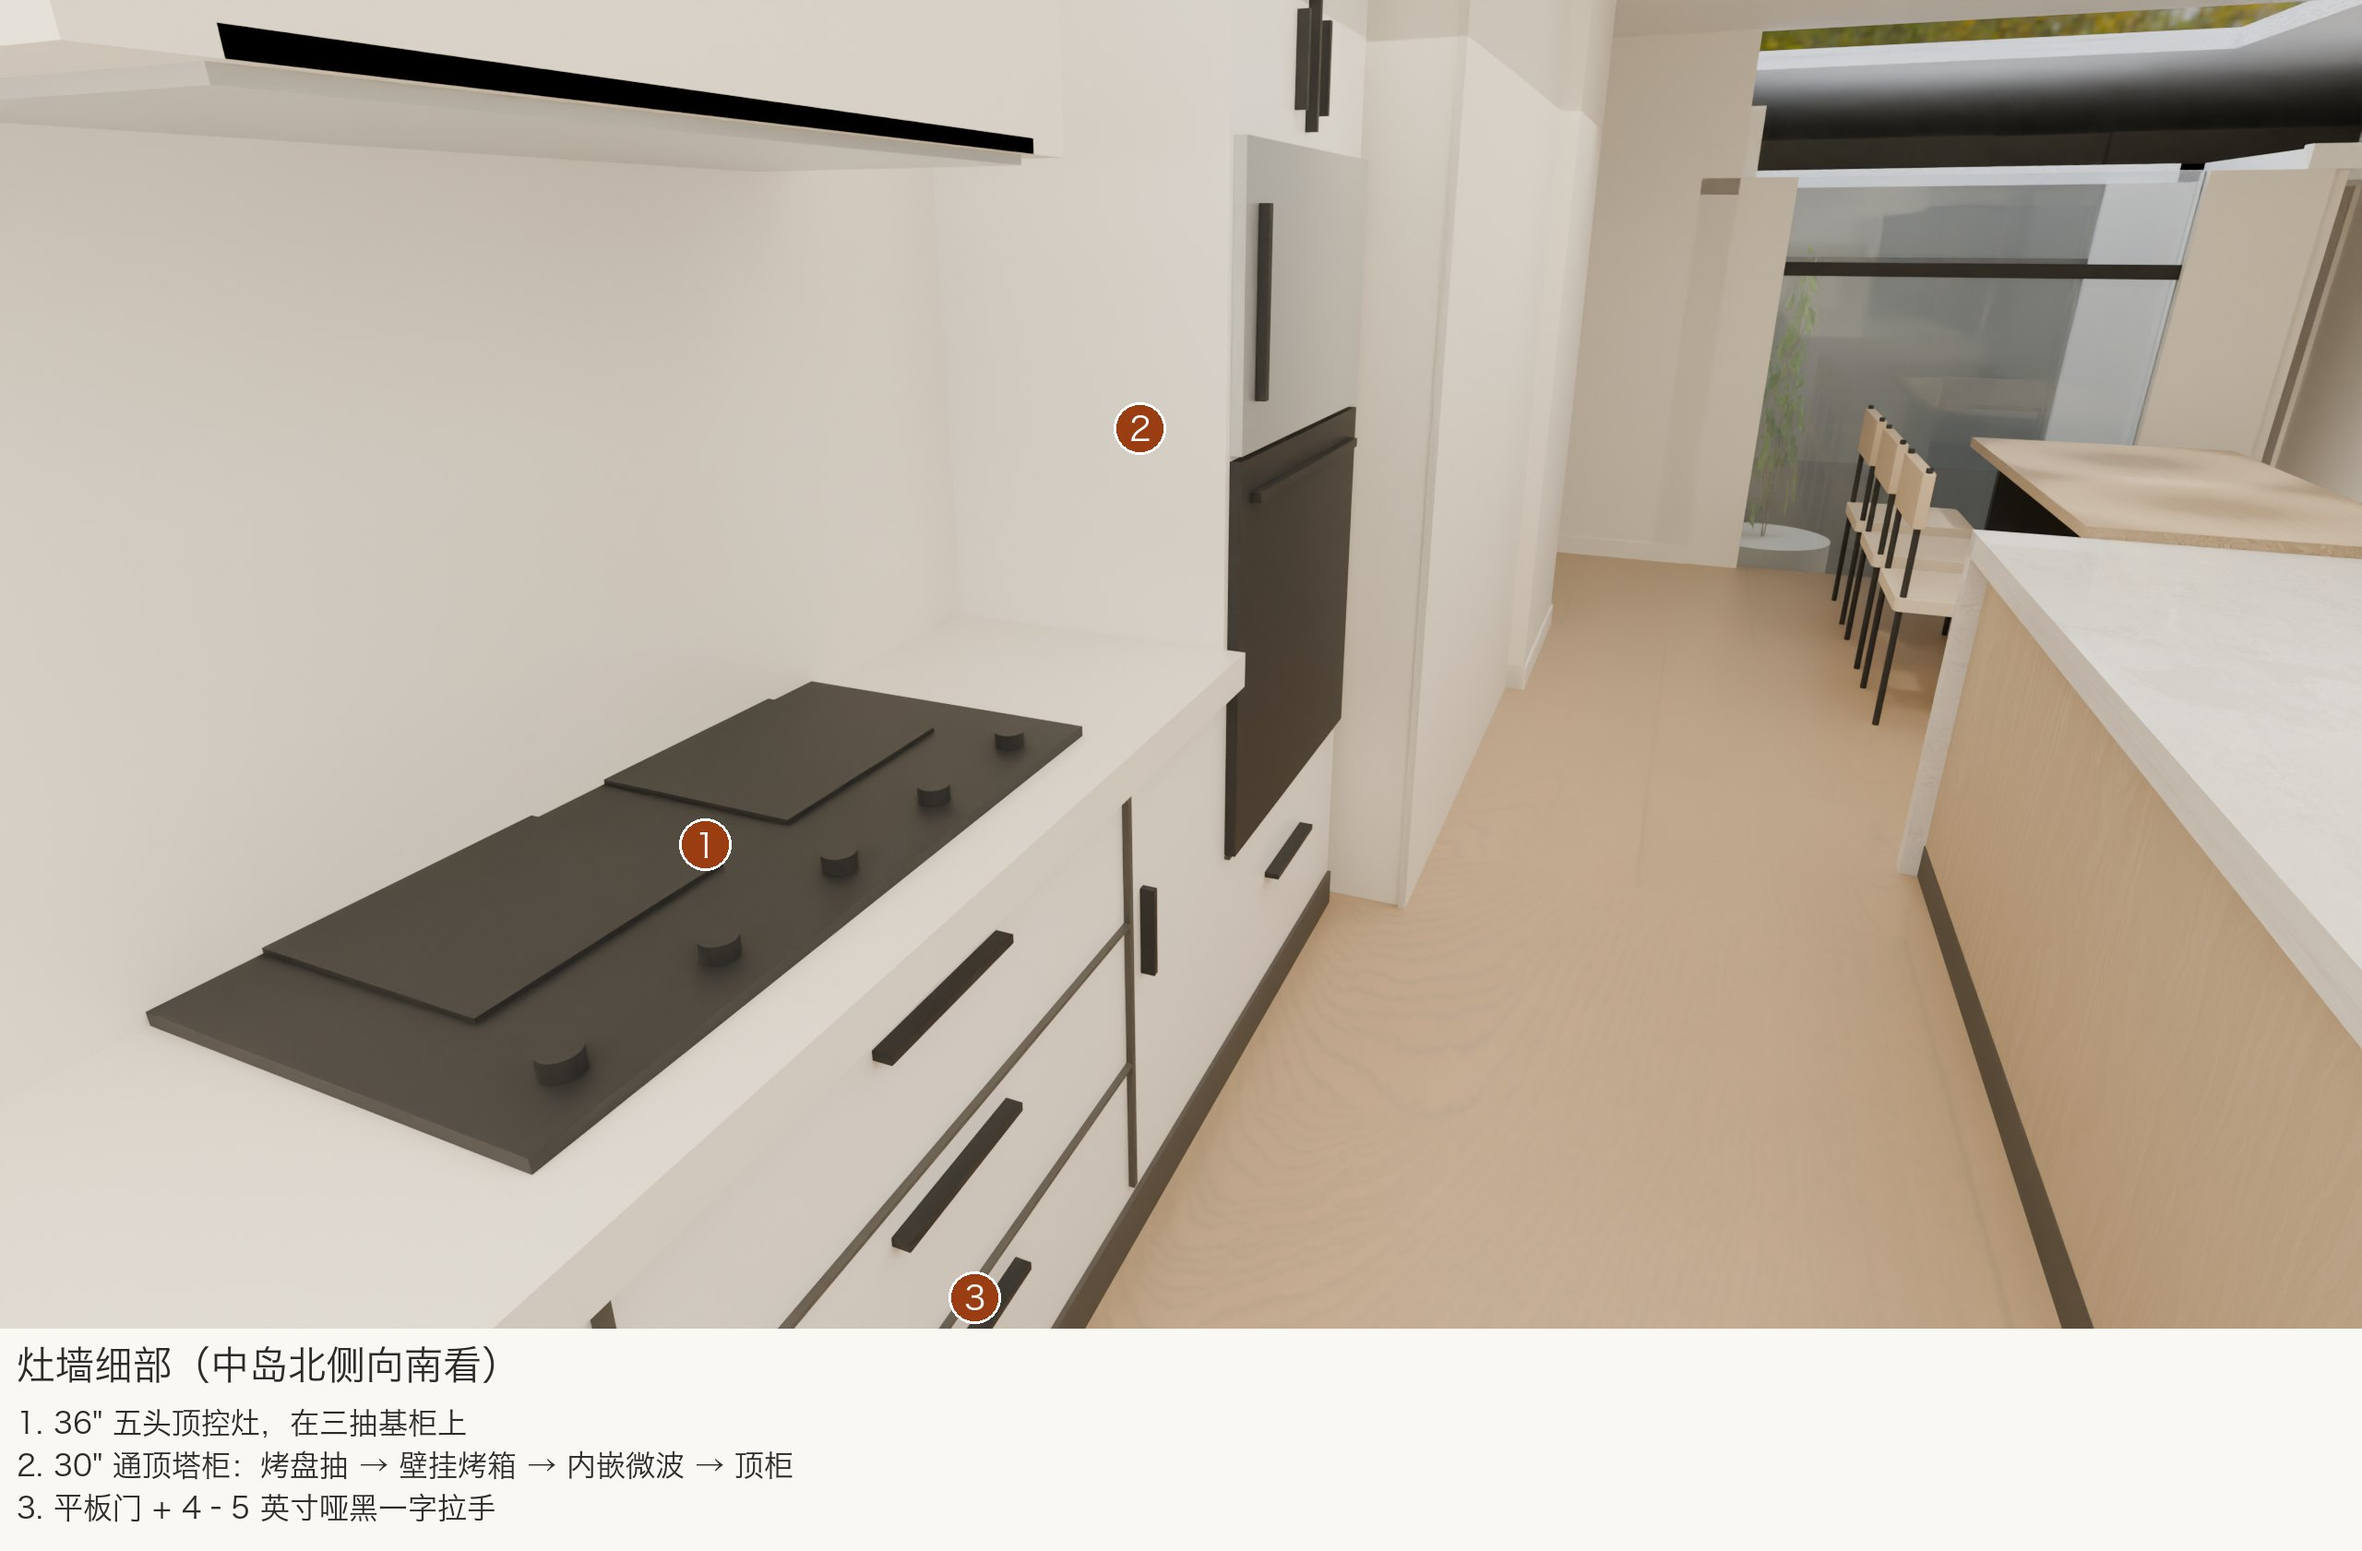
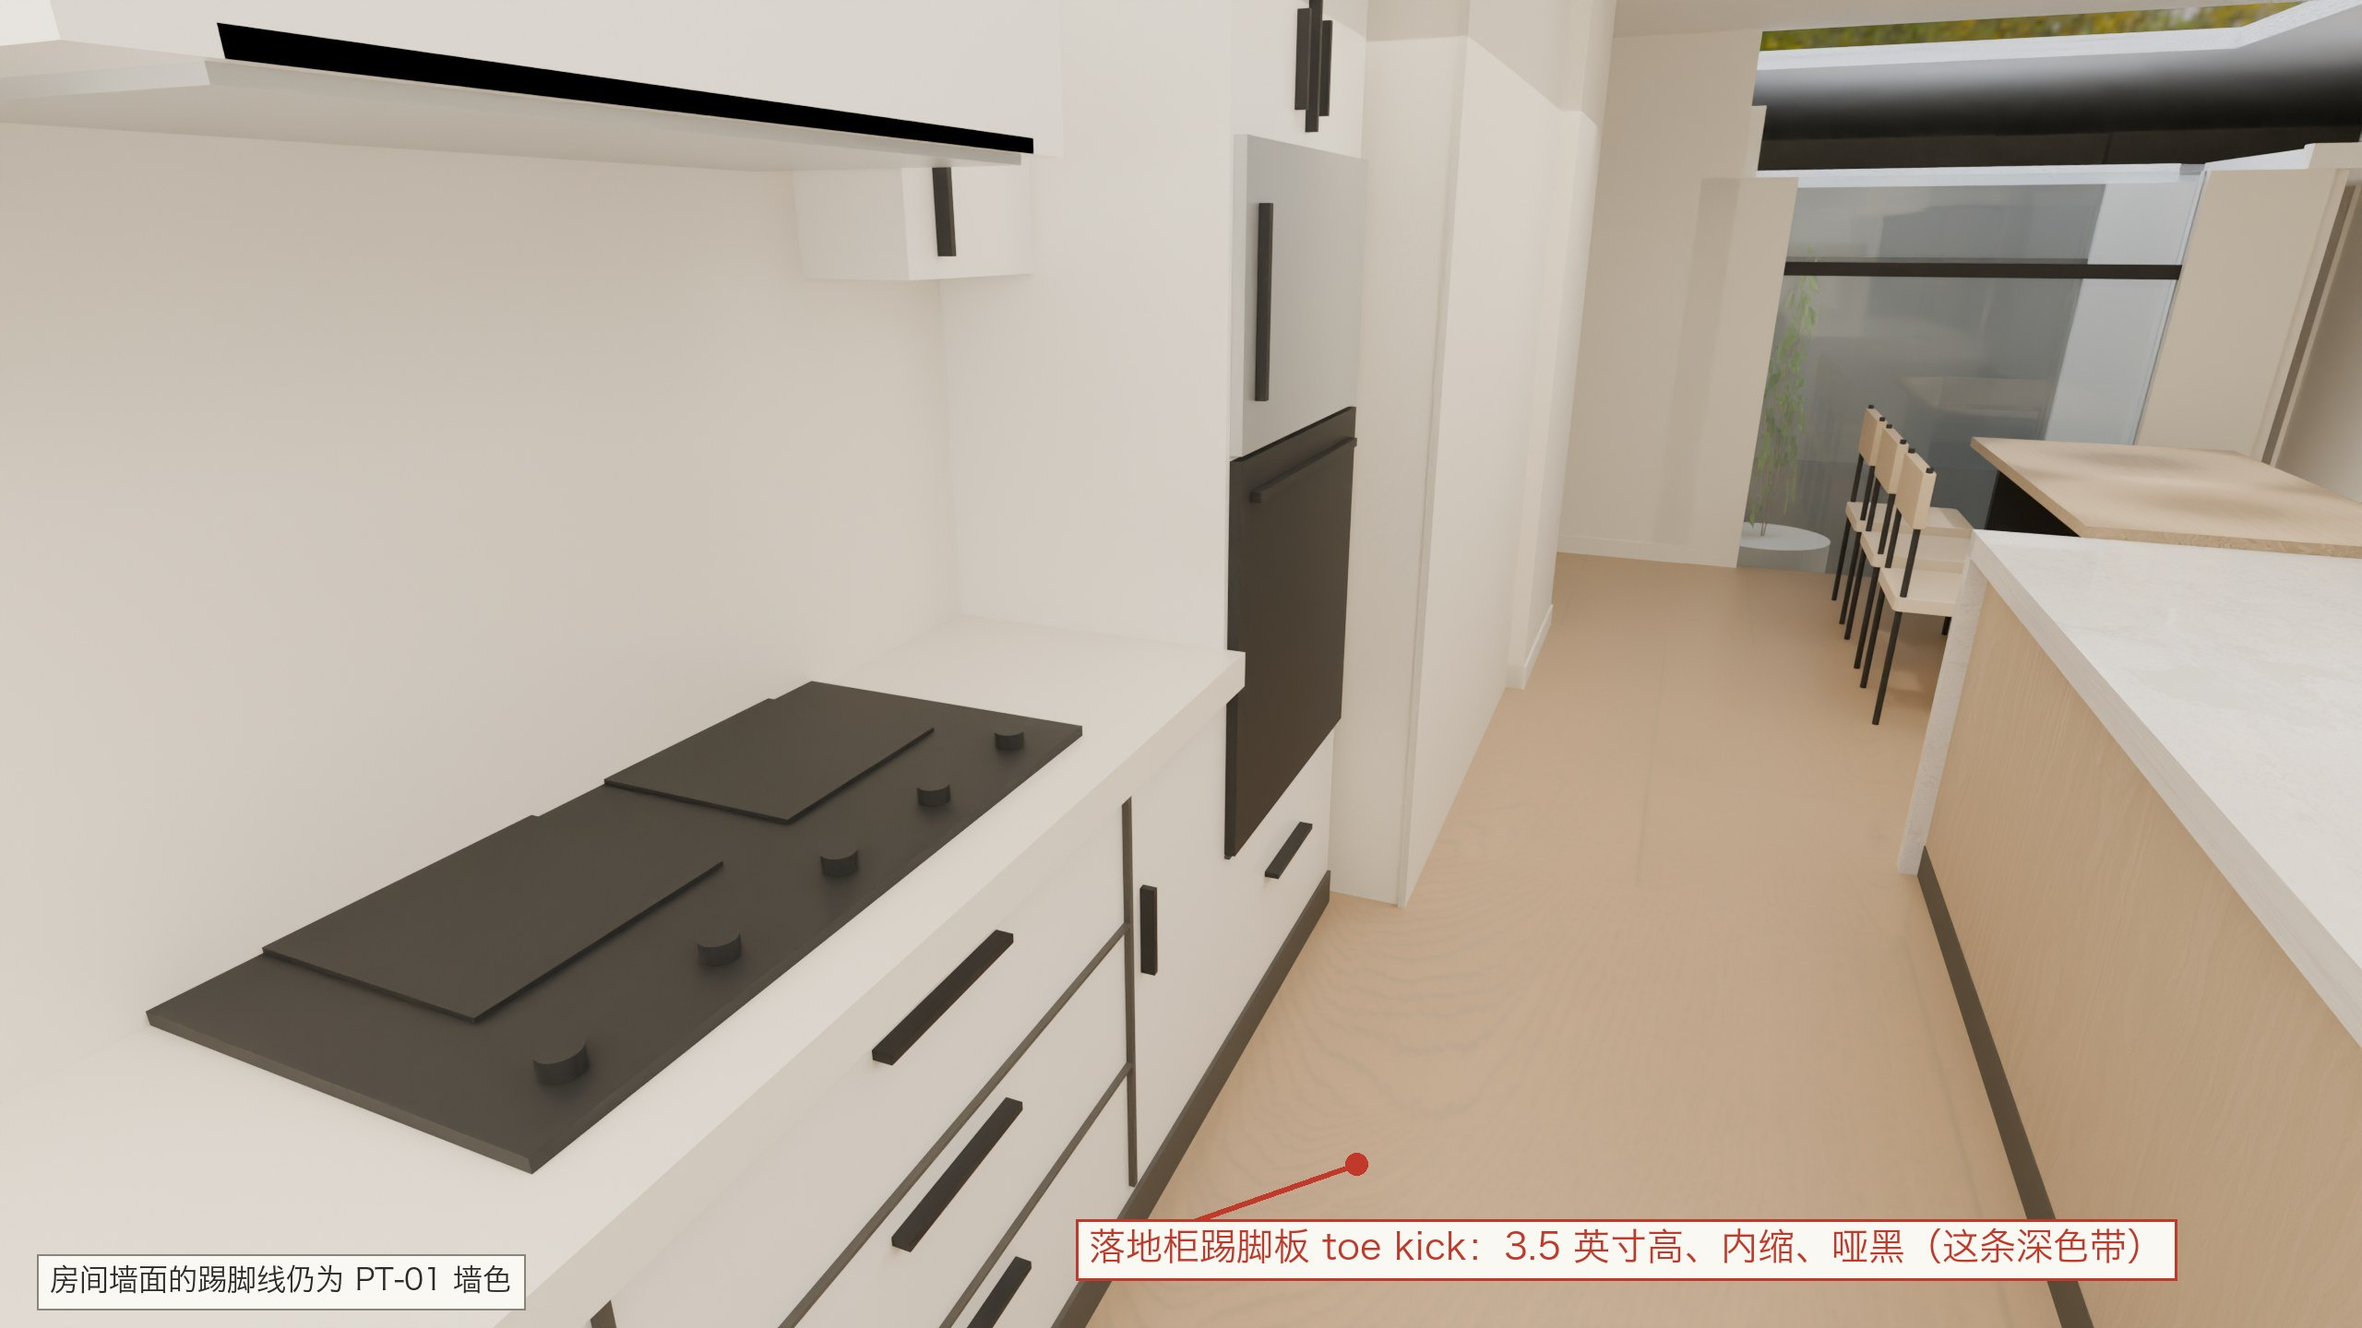
Kitchen: hood cabinet in matching cabinet panel, continuous upper run (renders updated)

diff --git a/UAT.html b/UAT.html
@@ -87,7 +87,7 @@ li.own,span.own{color:#6b5d3a}li.own::marker{color:#c9b48a}
 <h3 id="s6">6 · 厨房</h3>
 <div class="fig plan"><figure><img src="uat/zone-7.jpg" alt=""><figcaption><b>厨房 · 平面</b> — 本区位置与各房间名称；细节看效果图。</figcaption></figure></div>
 
-<div class="fig "><figure><img src="uat/K-stove-wall-anno.jpg" alt=""><figcaption><b>灶墙细部（中岛北侧向南看）</b> — 右：30" 通顶塔柜（15" 烤盘抽 → 壁挂烤箱 → 内嵌微波 + 原厂框 → 顶柜两门，门面齐基柜）；16" 抽拉柜；36" 五头顶控灶在三抽基柜上；42" 烟机柜同柜板到顶（渲染仍为旧石膏烟囱体示意）、机口底沿退 ½"；左：吊柜连到烟机柜 + 灯檐；素面暖白石英到吊柜底；平板门 + 哑黑一字拉手 + 哑黑内收踢脚；白橡地板。</figcaption></figure><figure><img src="uat/D-garden-window.jpg" alt=""><figcaption><b>水槽花园窗石龛（中岛东端向东看）</b> — 东墙石英台面到吊柜底 60"；4" 石英立面 + 12" 石英窗台一体；窗洞两侧 2cm 石英返贴到窗头；窗头以上留白；黑框。</figcaption></figure></div>
+<div class="fig "><figure><img src="uat/K-stove-wall-anno.jpg" alt=""><figcaption><b>灶墙细部（中岛北侧向南看）</b> — 右：30" 通顶塔柜（15" 烤盘抽 → 壁挂烤箱 → 内嵌微波 + 原厂框 → 顶柜两门，门面齐基柜）；16" 抽拉柜；36" 五头顶控灶在三抽基柜上；42" 烟机柜同柜板到顶、机口底沿退 ½"；左：吊柜连到烟机柜 + 灯檐；素面暖白石英到吊柜底；平板门 + 哑黑一字拉手 + 哑黑内收踢脚；白橡地板。</figcaption></figure><figure><img src="uat/D-garden-window.jpg" alt=""><figcaption><b>水槽花园窗石龛（中岛东端向东看）</b> — 东墙石英台面到吊柜底 60"；4" 石英立面 + 12" 石英窗台一体；窗洞两侧 2cm 石英返贴到窗头；窗头以上留白；黑框。</figcaption></figure></div>
 
 <div class="fig "><figure><img src="uat/K-fridge-anno.jpg" alt=""><figcaption><b>冰箱围合（空房）</b> — 冰箱在东墙北端；北窗全窗可见；窗与冰箱之间 30" 留白墙；左：北墙 66" 哑黑挂条 + 42" 白橡落物浮凳（可翻叠）。</figcaption></figure><figure><img src="uat/C-kitchen-labeled.jpg" alt=""><figcaption><b>厨房配色</b> — 中岛白橡；周边暖白；吧凳哑黑架 + 白橡座（渲染全黑为代用）；西端 30" 塔柜 = 烤箱 + 微波 + 顶柜（渲染吊柜顶亮带为旧示意，吊柜顶无灯）。</figcaption></figure></div>
 

diff --git a/index.html b/index.html
@@ -87,7 +87,7 @@ li.own,span.own{color:#6b5d3a}li.own::marker{color:#c9b48a}
 <h3 id="s6">6 · 厨房</h3>
 <div class="fig plan"><figure><img src="uat/zone-7.jpg" alt=""><figcaption><b>厨房 · 平面</b> — 本区位置与各房间名称；细节看效果图。</figcaption></figure></div>
 
-<div class="fig "><figure><img src="uat/K-stove-wall-anno.jpg" alt=""><figcaption><b>灶墙细部（中岛北侧向南看）</b> — 右：30" 通顶塔柜（15" 烤盘抽 → 壁挂烤箱 → 内嵌微波 + 原厂框 → 顶柜两门，门面齐基柜）；16" 抽拉柜；36" 五头顶控灶在三抽基柜上；42" 烟机柜同柜板到顶（渲染仍为旧石膏烟囱体示意）、机口底沿退 ½"；左：吊柜连到烟机柜 + 灯檐；素面暖白石英到吊柜底；平板门 + 哑黑一字拉手 + 哑黑内收踢脚；白橡地板。</figcaption></figure><figure><img src="uat/D-garden-window.jpg" alt=""><figcaption><b>水槽花园窗石龛（中岛东端向东看）</b> — 东墙石英台面到吊柜底 60"；4" 石英立面 + 12" 石英窗台一体；窗洞两侧 2cm 石英返贴到窗头；窗头以上留白；黑框。</figcaption></figure></div>
+<div class="fig "><figure><img src="uat/K-stove-wall-anno.jpg" alt=""><figcaption><b>灶墙细部（中岛北侧向南看）</b> — 右：30" 通顶塔柜（15" 烤盘抽 → 壁挂烤箱 → 内嵌微波 + 原厂框 → 顶柜两门，门面齐基柜）；16" 抽拉柜；36" 五头顶控灶在三抽基柜上；42" 烟机柜同柜板到顶、机口底沿退 ½"；左：吊柜连到烟机柜 + 灯檐；素面暖白石英到吊柜底；平板门 + 哑黑一字拉手 + 哑黑内收踢脚；白橡地板。</figcaption></figure><figure><img src="uat/D-garden-window.jpg" alt=""><figcaption><b>水槽花园窗石龛（中岛东端向东看）</b> — 东墙石英台面到吊柜底 60"；4" 石英立面 + 12" 石英窗台一体；窗洞两侧 2cm 石英返贴到窗头；窗头以上留白；黑框。</figcaption></figure></div>
 
 <div class="fig "><figure><img src="uat/K-fridge-anno.jpg" alt=""><figcaption><b>冰箱围合（空房）</b> — 冰箱在东墙北端；北窗全窗可见；窗与冰箱之间 30" 留白墙；左：北墙 66" 哑黑挂条 + 42" 白橡落物浮凳（可翻叠）。</figcaption></figure><figure><img src="uat/C-kitchen-labeled.jpg" alt=""><figcaption><b>厨房配色</b> — 中岛白橡；周边暖白；吧凳哑黑架 + 白橡座（渲染全黑为代用）；西端 30" 塔柜 = 烤箱 + 微波 + 顶柜（渲染吊柜顶亮带为旧示意，吊柜顶无灯）。</figcaption></figure></div>
 
